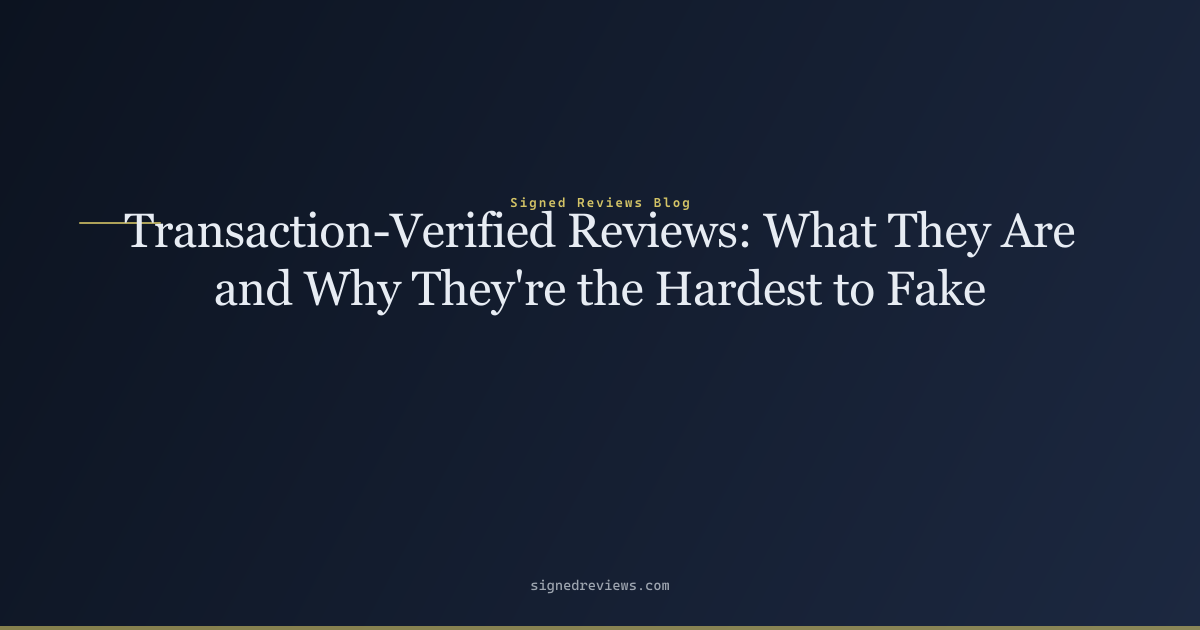
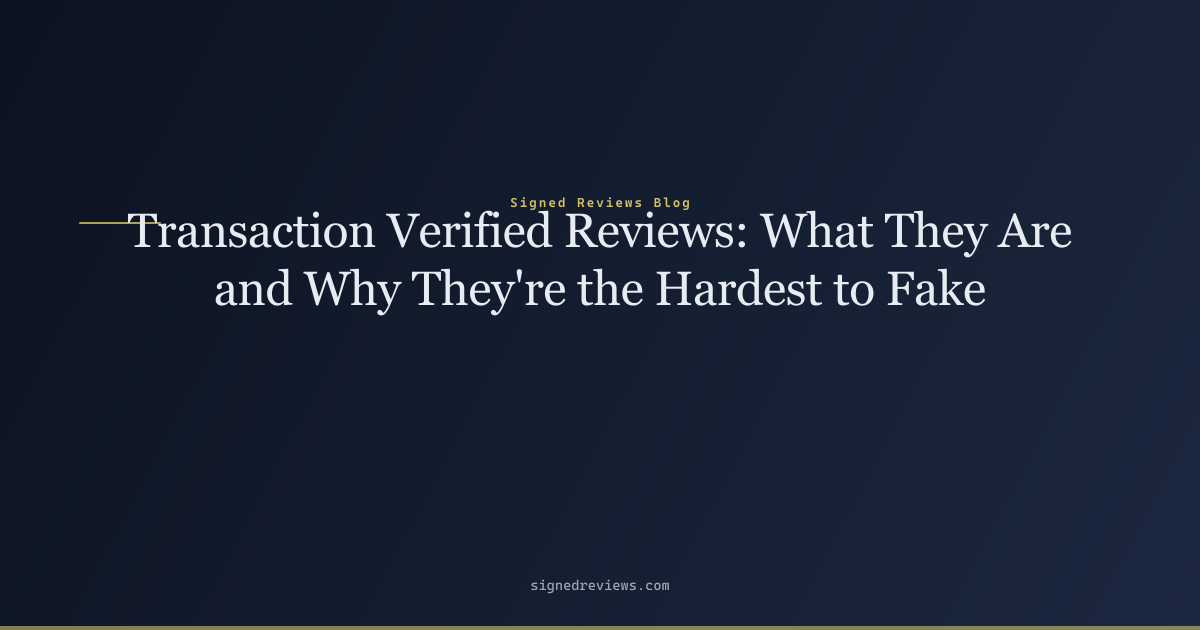
SEO: target transaction verified reviews keyword
- Title: non-hyphenated 'Transaction Verified Reviews'
- Meta desc: paragraph now 125 chars with exact keyword
- H2: 'What are transaction verified reviews?'
- Body: 8 non-hyphenated occurrences of exact phrase
- Added internal link to /how-it-works/
- Removed stray --- separator from intro

Changed region(s): [[0.0925, 0.3317, 0.8942, 0.4222]]

diff --git a/blog/transaction-verified-reviews/index.html b/blog/transaction-verified-reviews/index.html
@@ -3,21 +3,21 @@
 <head>
   <meta charset="UTF-8">
   <meta name="viewport" content="width=device-width, initial-scale=1.0">
-  <title>Transaction-Verified Reviews: What They Are and Why They're the Hardest to Fake — Signed Reviews Blog</title>
-  <meta name="description" content="- Email-verified: reviewer controls the email address (anyone can create one).">
+  <title>Transaction Verified Reviews: What They Are and Why They're the Hardest to Fake — Signed Reviews Blog</title>
+  <meta name="description" content="Transaction verified reviews sit at the strongest end of that spectrum. Here's what they are and why the distinction matters.">
   <link rel="canonical" href="https://signedreviews.com/blog/transaction-verified-reviews/">
   <meta name="robots" content="index, follow">
   <meta name="theme-color" content="#0c1320">
 
   <meta property="og:type" content="website">
-  <meta property="og:title" content="Transaction-Verified Reviews: What They Are and Why They're the Hardest to Fake — Signed Reviews Blog">
-  <meta property="og:description" content="- Email-verified: reviewer controls the email address (anyone can create one).">
+  <meta property="og:title" content="Transaction Verified Reviews: What They Are and Why They're the Hardest to Fake — Signed Reviews Blog">
+  <meta property="og:description" content="Transaction verified reviews sit at the strongest end of that spectrum. Here's what they are and why the distinction matters.">
   <meta property="og:url" content="https://signedreviews.com/blog/transaction-verified-reviews/">
   <meta property="og:site_name" content="Signed Reviews">
   <meta property="og:image" content="https://signedreviews.com/images/SignedReviews_full_logo.png">
   <meta name="twitter:card" content="summary_large_image">
-  <meta name="twitter:title" content="Transaction-Verified Reviews: What They Are and Why They're the Hardest to Fake — Signed Reviews Blog">
-  <meta name="twitter:description" content="- Email-verified: reviewer controls the email address (anyone can create one).">
+  <meta name="twitter:title" content="Transaction Verified Reviews: What They Are and Why They're the Hardest to Fake — Signed Reviews Blog">
+  <meta name="twitter:description" content="Transaction verified reviews sit at the strongest end of that spectrum. Here's what they are and why the distinction matters.">
 
   <link rel="icon" href="/SignedReviews/favicon.svg" type="image/svg+xml">
   <link rel="icon" type="image/png" sizes="32x32" href="/SignedReviews/images/SignedReviews_logo_only.png">
@@ -483,7 +483,7 @@ main { padding: 0; }
     })();
   </script>
 
-  <script type="application/ld+json">{"@context":"https://schema.org","@type":"BlogPosting","headline":"Transaction-Verified Reviews: What They Are and Why They're the Hardest to Fake","description":"- Email-verified: reviewer controls the email address (anyone can create one).","datePublished":"2026-07-24 ·","author":{"@type":"Organization","name":"Signed Reviews"},"publisher":{"@type":"Organization","name":"Signed Reviews","logo":{"@type":"ImageObject","url":"https://signedreviews.com/images/SignedReviews_logo_only.png"}}}</script>
+  <script type="application/ld+json">{"@context":"https://schema.org","@type":"BlogPosting","headline":"Transaction Verified Reviews: What They Are and Why They're the Hardest to Fake","description":"Transaction verified reviews sit at the strongest end of that spectrum. Here's what they are and why the distinction matters.","datePublished":"2026-07-24 ·","author":{"@type":"Organization","name":"Signed Reviews"},"publisher":{"@type":"Organization","name":"Signed Reviews","logo":{"@type":"ImageObject","url":"https://signedreviews.com/images/SignedReviews_logo_only.png"}}}</script>
 </head>
 <body>
   <a class="skip-link" href="#main">Skip to main content</a>
@@ -524,24 +524,24 @@ main { padding: 0; }
     <section class="page-hero">
       <div class="page-hero-inner">
         <span class="eyebrow">Blog</span>
-        <h1>Transaction-Verified Reviews: What They Are and Why They're the Hardest to Fake</h1>
-        <p>- Email-verified: reviewer controls the email address (anyone can create one).</p>
+        <h1>Transaction Verified Reviews: What They Are and Why They're the Hardest to Fake</h1>
+        <p>Transaction verified reviews sit at the strongest end of that spectrum. Here's what they are and why the distinction matters.</p>
       </div>
     </section>
     <div class="prose-wrap">
       <article class="prose" style="max-width: var(--max-prose)">
       <p class="post-meta" style="color:var(--muted);font-size:.9rem;margin-bottom:1.5rem;">2026-07-24 ·</p>
-      <p>Every review platform says its reviews are &quot;verified.&quot; The word is on every badge, every landing page, every sales deck. But &quot;verified&quot; can mean almost anything — from &quot;this person has an email address&quot; to &quot;an independent payment processor confirmed the charge.&quot; Transaction-verified reviews sit at the strongest end of that spectrum. Here&#39;s what they are and why the distinction matters.</p>
-<hr>
-<h2 id="what-is-a-transaction-verified-review"><a class="anchor" href="#what-is-a-transaction-verified-review" aria-label="Permalink to What is a transaction-verified review?">#</a> What is a transaction-verified review?</h2>
-<p>A <strong>transaction-verified review</strong> is a review where an independent party — typically a payment processor — has confirmed that a specific transaction occurred between the reviewer and the business. The key words are <strong>independent party</strong> and <strong>transaction occurred.</strong> The verification doesn&#39;t come from the business&#39;s own records; it comes from the payment infrastructure that sits between the business and the customer.</p>
+      <p>Every review platform says its reviews are &quot;verified.&quot; The word is on every badge, every landing page, every sales deck. But &quot;verified&quot; can mean almost anything — from &quot;this person has an email address&quot; to &quot;an independent payment processor confirmed the charge.&quot;</p>
+<p>Transaction verified reviews sit at the strongest end of that spectrum. Here&#39;s what they are and why the distinction matters.</p>
+<h2 id="what-are-transaction-verified-reviews"><a class="anchor" href="#what-are-transaction-verified-reviews" aria-label="Permalink to What are transaction verified reviews?">#</a> What are transaction verified reviews?</h2>
+<p><strong>Transaction verified reviews</strong> are reviews where an independent party — typically a payment processor — has confirmed that a specific transaction occurred between the reviewer and the business. The key words are <strong>independent party</strong> and <strong>transaction occurred.</strong> The verification doesn&#39;t come from the business&#39;s own records; it comes from the payment infrastructure that sits between the business and the customer. This is what makes them transaction verified reviews in the strongest sense: the payment processor is neutral, and its records can&#39;t be altered by either side.</p>
 <p>This is structurally different from:</p>
 <ul>
 <li><strong>Email-verified:</strong> reviewer controls the email address (anyone can create one).</li>
 <li><strong>Self-attested:</strong> reviewer says they bought something (no check at all).</li>
 <li><strong>Merchant-verified:</strong> the business&#39;s own records show a purchase (the business controls the data).</li>
 </ul>
-<p>A transaction-verified review is the only type where the <strong>attesting party is neutral</strong> — the payment processor has no incentive to favor the business or the reviewer, and its records cannot be altered by either side.</p>
+<p>Transaction verified reviews are the only type where the <strong>attesting party is neutral</strong> — the payment processor has no incentive to favor the business or the reviewer, and its records cannot be altered by either side.</p>
 <hr>
 <h2 id="the-five-levels-of-review-verification"><a class="anchor" href="#the-five-levels-of-review-verification" aria-label="Permalink to The five levels of review verification">#</a> The five levels of review verification</h2>
 <p>Every &quot;verified&quot; review sits somewhere on this spectrum:</p>
@@ -602,14 +602,14 @@ main { padding: 0; }
 <li><strong>&quot;Verified&quot; = the merchant uploaded a transaction log</strong> (Feefo, eKomi). The merchant decides what goes into the feed being verified against.</li>
 </ul>
 <p>In every case, the thing being verified against is <strong>data the merchant supplies.</strong> A merchant determined to manufacture reviews could — depending on the platform — invite fake accounts, create test orders, or curate which transactions go into the verification feed. An outsider can&#39;t do this easily, but the merchant themselves can.</p>
-<p><strong>A transaction-verified review changes the power dynamic:</strong> the merchant doesn&#39;t control the verification data. The payment processor does. If the processor says no charge exists, there&#39;s no review. Period.</p>
+<p><strong>Transaction verified reviews change the power dynamic:</strong> the merchant doesn&#39;t control the verification data. The payment processor does. If the processor says no charge exists, there&#39;s no review. Period.</p>
 <hr>
 <h2 id="how-processor-attested-verification-works-the-stripe-model"><a class="anchor" href="#how-processor-attested-verification-works-the-stripe-model" aria-label="Permalink to How processor-attested verification works (the Stripe model)">#</a> How processor-attested verification works (the Stripe model)</h2>
 <p>Here&#39;s the concrete flow for a processor-attested, transaction-verified review:</p>
 <ol>
 <li><p><strong>A customer makes a purchase via Stripe.</strong> Stripe processes the payment and records a charge object — containing the amount, the customer&#39;s email, the payment status, and a unique charge ID.</p>
 </li>
-<li><p><strong>The business connects their Stripe account</strong> to the review platform via OAuth — <strong>read-only access only.</strong> The platform can query charges, customers, and refunds. It cannot create, modify, or refund anything.</p>
+<li><p><strong>The business connects their Stripe account</strong> to the review platform via OAuth — <strong>read-only access only.</strong> The platform can query charges, customers, and refunds. It cannot create, modify, or refund anything. See <a href="/how-it-works/">how it works</a> for the full setup flow.</p>
 </li>
 <li><p><strong>When a new charge appears</strong>, the platform sends a review invitation to the customer&#39;s verified payment email — the email Stripe has on file for that transaction. No invitation is sent for charges that are disputed, refunded, or flagged.</p>
 </li>

diff --git a/blog/index.html b/blog/index.html
@@ -556,9 +556,9 @@ main { padding: 0; }
       <p style="margin:0;color:var(--text);font-size:.95rem;">Here are six alternatives built for e-commerce, ranked by how they verify purchases — not by monthly price.</p>
     </div>
     <div style="margin-bottom:1.5rem;padding-bottom:1.5rem;border-bottom:1px solid var(--border);">
-      <h2 style="margin:0 0 .3rem;font-size:1.25rem;"><a href="/SignedReviews/blog/transaction-verified-reviews/" style="text-decoration:none;">Transaction-Verified Reviews: What They Are and Why They're the Hardest to Fake</a></h2>
+      <h2 style="margin:0 0 .3rem;font-size:1.25rem;"><a href="/SignedReviews/blog/transaction-verified-reviews/" style="text-decoration:none;">Transaction Verified Reviews: What They Are and Why They're the Hardest to Fake</a></h2>
       <p class="post-meta" style="color:var(--muted);font-size:.85rem;margin:0 0 .4rem;">2026-07-24 ·</p>
-      <p style="margin:0;color:var(--text);font-size:.95rem;">- Email-verified: reviewer controls the email address (anyone can create one).</p>
+      <p style="margin:0;color:var(--text);font-size:.95rem;">Transaction verified reviews sit at the strongest end of that spectrum. Here's what they are and why the distinction matters.</p>
     </div>
     <div style="margin-bottom:1.5rem;padding-bottom:1.5rem;border-bottom:1px solid var(--border);">
       <h2 style="margin:0 0 .3rem;font-size:1.25rem;"><a href="/SignedReviews/blog/stripe-verified-reviews/" style="text-decoration:none;">Stripe Verified Reviews: Tamper Evident Reviews Backed by Your Payment Processor</a></h2>

diff --git a/files/blog/transaction-verified-reviews.md b/files/blog/transaction-verified-reviews.md
@@ -1,16 +1,16 @@
-# Transaction-Verified Reviews: What They Are and Why They're the Hardest to Fake
+# Transaction Verified Reviews: What They Are and Why They're the Hardest to Fake
 
-**Published:** 2026-07-24 · **Author:** Signed Reviews Team · **Description:** What transaction-verified reviews are, how they differ from email-verified and merchant-verified reviews, and why processor-attested verification is the strongest anti-fake mechanism available.**
-
----
-
-Every review platform says its reviews are "verified." The word is on every badge, every landing page, every sales deck. But "verified" can mean almost anything — from "this person has an email address" to "an independent payment processor confirmed the charge." Transaction-verified reviews sit at the strongest end of that spectrum. Here's what they are and why the distinction matters.
+**Published:** 2026-07-24 · **Author:** Signed Reviews Team · **Description:** Transaction verified reviews are independently confirmed by a payment processor — not by merchant-supplied data. Here's how they work, how they differ from email-verified and merchant-verified reviews, and why processor-attested verification is the strongest anti-fake mechanism available.**
 
 ---
 
-## What is a transaction-verified review?
+Every review platform says its reviews are "verified." The word is on every badge, every landing page, every sales deck. But "verified" can mean almost anything — from "this person has an email address" to "an independent payment processor confirmed the charge."
 
-A **transaction-verified review** is a review where an independent party — typically a payment processor — has confirmed that a specific transaction occurred between the reviewer and the business. The key words are **independent party** and **transaction occurred.** The verification doesn't come from the business's own records; it comes from the payment infrastructure that sits between the business and the customer.
+Transaction verified reviews sit at the strongest end of that spectrum. Here's what they are and why the distinction matters.
+
+## What are transaction verified reviews?
+
+**Transaction verified reviews** are reviews where an independent party — typically a payment processor — has confirmed that a specific transaction occurred between the reviewer and the business. The key words are **independent party** and **transaction occurred.** The verification doesn't come from the business's own records; it comes from the payment infrastructure that sits between the business and the customer. This is what makes them transaction verified reviews in the strongest sense: the payment processor is neutral, and its records can't be altered by either side.
 
 This is structurally different from:
 
@@ -18,7 +18,7 @@ This is structurally different from:
 - **Self-attested:** reviewer says they bought something (no check at all).
 - **Merchant-verified:** the business's own records show a purchase (the business controls the data).
 
-A transaction-verified review is the only type where the **attesting party is neutral** — the payment processor has no incentive to favor the business or the reviewer, and its records cannot be altered by either side.
+Transaction verified reviews are the only type where the **attesting party is neutral** — the payment processor has no incentive to favor the business or the reviewer, and its records cannot be altered by either side.
 
 ---
 
@@ -50,7 +50,7 @@ Here's the uncomfortable truth about the review industry: **the word "verified" 
 
 In every case, the thing being verified against is **data the merchant supplies.** A merchant determined to manufacture reviews could — depending on the platform — invite fake accounts, create test orders, or curate which transactions go into the verification feed. An outsider can't do this easily, but the merchant themselves can.
 
-**A transaction-verified review changes the power dynamic:** the merchant doesn't control the verification data. The payment processor does. If the processor says no charge exists, there's no review. Period.
+**Transaction verified reviews change the power dynamic:** the merchant doesn't control the verification data. The payment processor does. If the processor says no charge exists, there's no review. Period.
 
 ---
 
@@ -60,7 +60,7 @@ Here's the concrete flow for a processor-attested, transaction-verified review:
 
 1. **A customer makes a purchase via Stripe.** Stripe processes the payment and records a charge object — containing the amount, the customer's email, the payment status, and a unique charge ID.
 
-2. **The business connects their Stripe account** to the review platform via OAuth — **read-only access only.** The platform can query charges, customers, and refunds. It cannot create, modify, or refund anything.
+2. **The business connects their Stripe account** to the review platform via OAuth — **read-only access only.** The platform can query charges, customers, and refunds. It cannot create, modify, or refund anything. See [how it works](/how-it-works/) for the full setup flow.
 
 3. **When a new charge appears**, the platform sends a review invitation to the customer's verified payment email — the email Stripe has on file for that transaction. No invitation is sent for charges that are disputed, refunded, or flagged.
 
